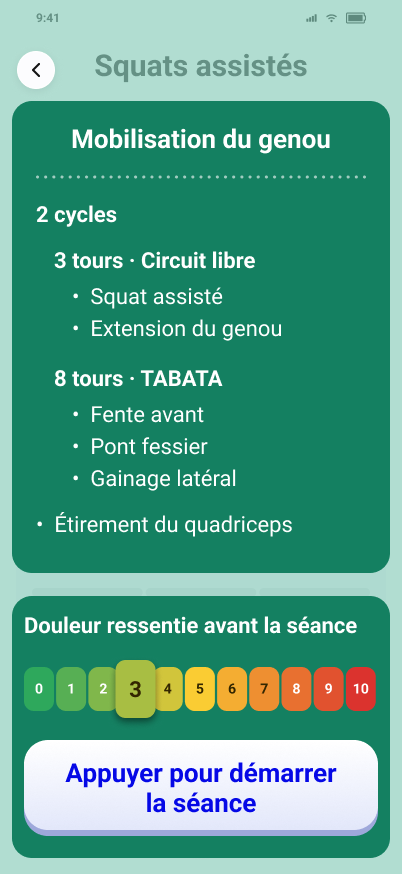
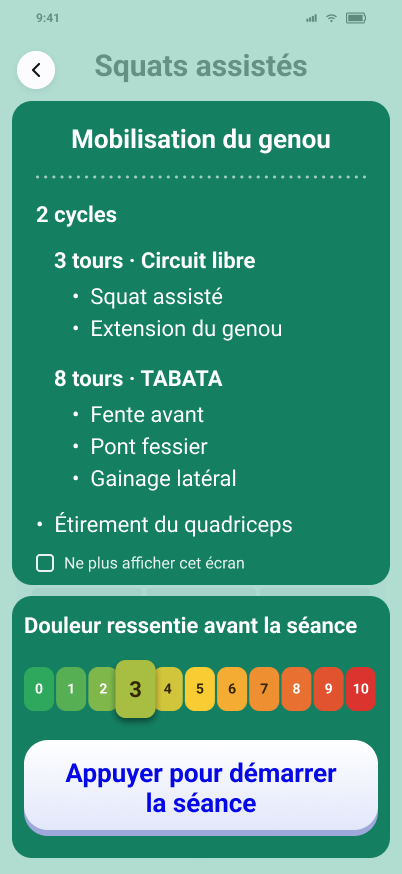
docs(D-577): case « Ne plus afficher » dessinée, capture à jour
Classe B (décision de Hermann, 27/11/2026). Tests non applicables.

Claude-Session: https://claude.ai/code/session_0138cCmJPZqMKdiqcqtCSEpU

Changed region(s): [[0.0299, 0.6178, 0.9851, 0.6796]]

diff --git a/docs/DSF-AVANT-SEANCE-2026-11-27.md b/docs/DSF-AVANT-SEANCE-2026-11-27.md
@@ -43,4 +43,4 @@ x = 12, y = 596, 378 × 262, même vert. Libellé « Douleur ressentie avant la 
 
 ## 6. Reste à décider
 
-« Ne plus afficher cet écran » : case à cocher placée à la fin du premier cadre vert (le cadre de la liste), en plus petit que la liste, proposée uniquement hors option douleur (D-577) ; taille exacte et dessin non faits. Emplacement où réactiver l'affichage : À CLARIFIER (D-577). États non dessinés : version sans option douleur avec « Ne plus afficher cet écran », bouton inactif. Vérification sur iPhone à faire : défilement de la liste sous le titre, lisibilité du texte sur le voile.
+« Ne plus afficher cet écran » : case à cocher placée à la fin du premier cadre vert (le cadre de la liste), en plus petit que la liste, proposée uniquement hors option douleur (D-577) ; dessinée sur `8921:35275` à titre d'illustration (case 18 × 18, rayon 4, contour blanc 2 ; libellé Roboto normal 16, blanc à 90 %, à 10 de la case ; bas du cadre élargi de 12 pt) ; dans l'écran avec option douleur, elle n'apparaît pas. Emplacement où réactiver l'affichage : À CLARIFIER (D-577). États non dessinés : version sans option douleur avec « Ne plus afficher cet écran », bouton inactif. Vérification sur iPhone à faire : défilement de la liste sous le titre, lisibilité du texte sur le voile.

diff --git a/.github/orchestration/reports/2026-11-18_PLANIF-GRILLE-DOC.md b/.github/orchestration/reports/2026-11-18_PLANIF-GRILLE-DOC.md
@@ -339,3 +339,4 @@
 - Complément (suite 20, livraison) : DSF `docs/DSF-AVANT-SEANCE-2026-11-27.md` créé ; ch13 (lignes 8921:35275 et 12716:25405), ch06 (capture 12716:25405 ajoutée), ch07 D-577 alignés ; prompt `docs/PROMPT-CLAUDE-CODE-AVANT-SEANCE-2026-11-27.md` rédigé. Figma : écrans 8921:35275 et 12716:25405 à jour, polices Roboto. Classe B ; tests non applicables ; vérification sur iPhone à faire.
 - Complément (suite 20 bis, D-577 point 5) : titre à égale distance du haut du cadre et d'une ligne de pointillés blancs (écrans 8921:35275 et 12716:25405) ; D-577, DSF Avant la séance, prompt Claude Code et captures ch06 alignés. Classe B ; tests non applicables.
 - Complément (suite 20 ter, D-577 point 3) : « Ne plus afficher cet écran » = case à cocher en fin du premier cadre vert (liste), plus petite, hors option douleur uniquement ; non dessinée ; réactivation toujours À CLARIFIER. D-577, DSF et prompt alignés. Classe B ; tests non applicables.
+- Complément (suite 20 quater) : case « Ne plus afficher cet écran » dessinée en fin du premier cadre vert de 8921:35275 (illustration ; absente avec option douleur) ; capture ch06 et DSF mis à jour. Classe B ; tests non applicables.
